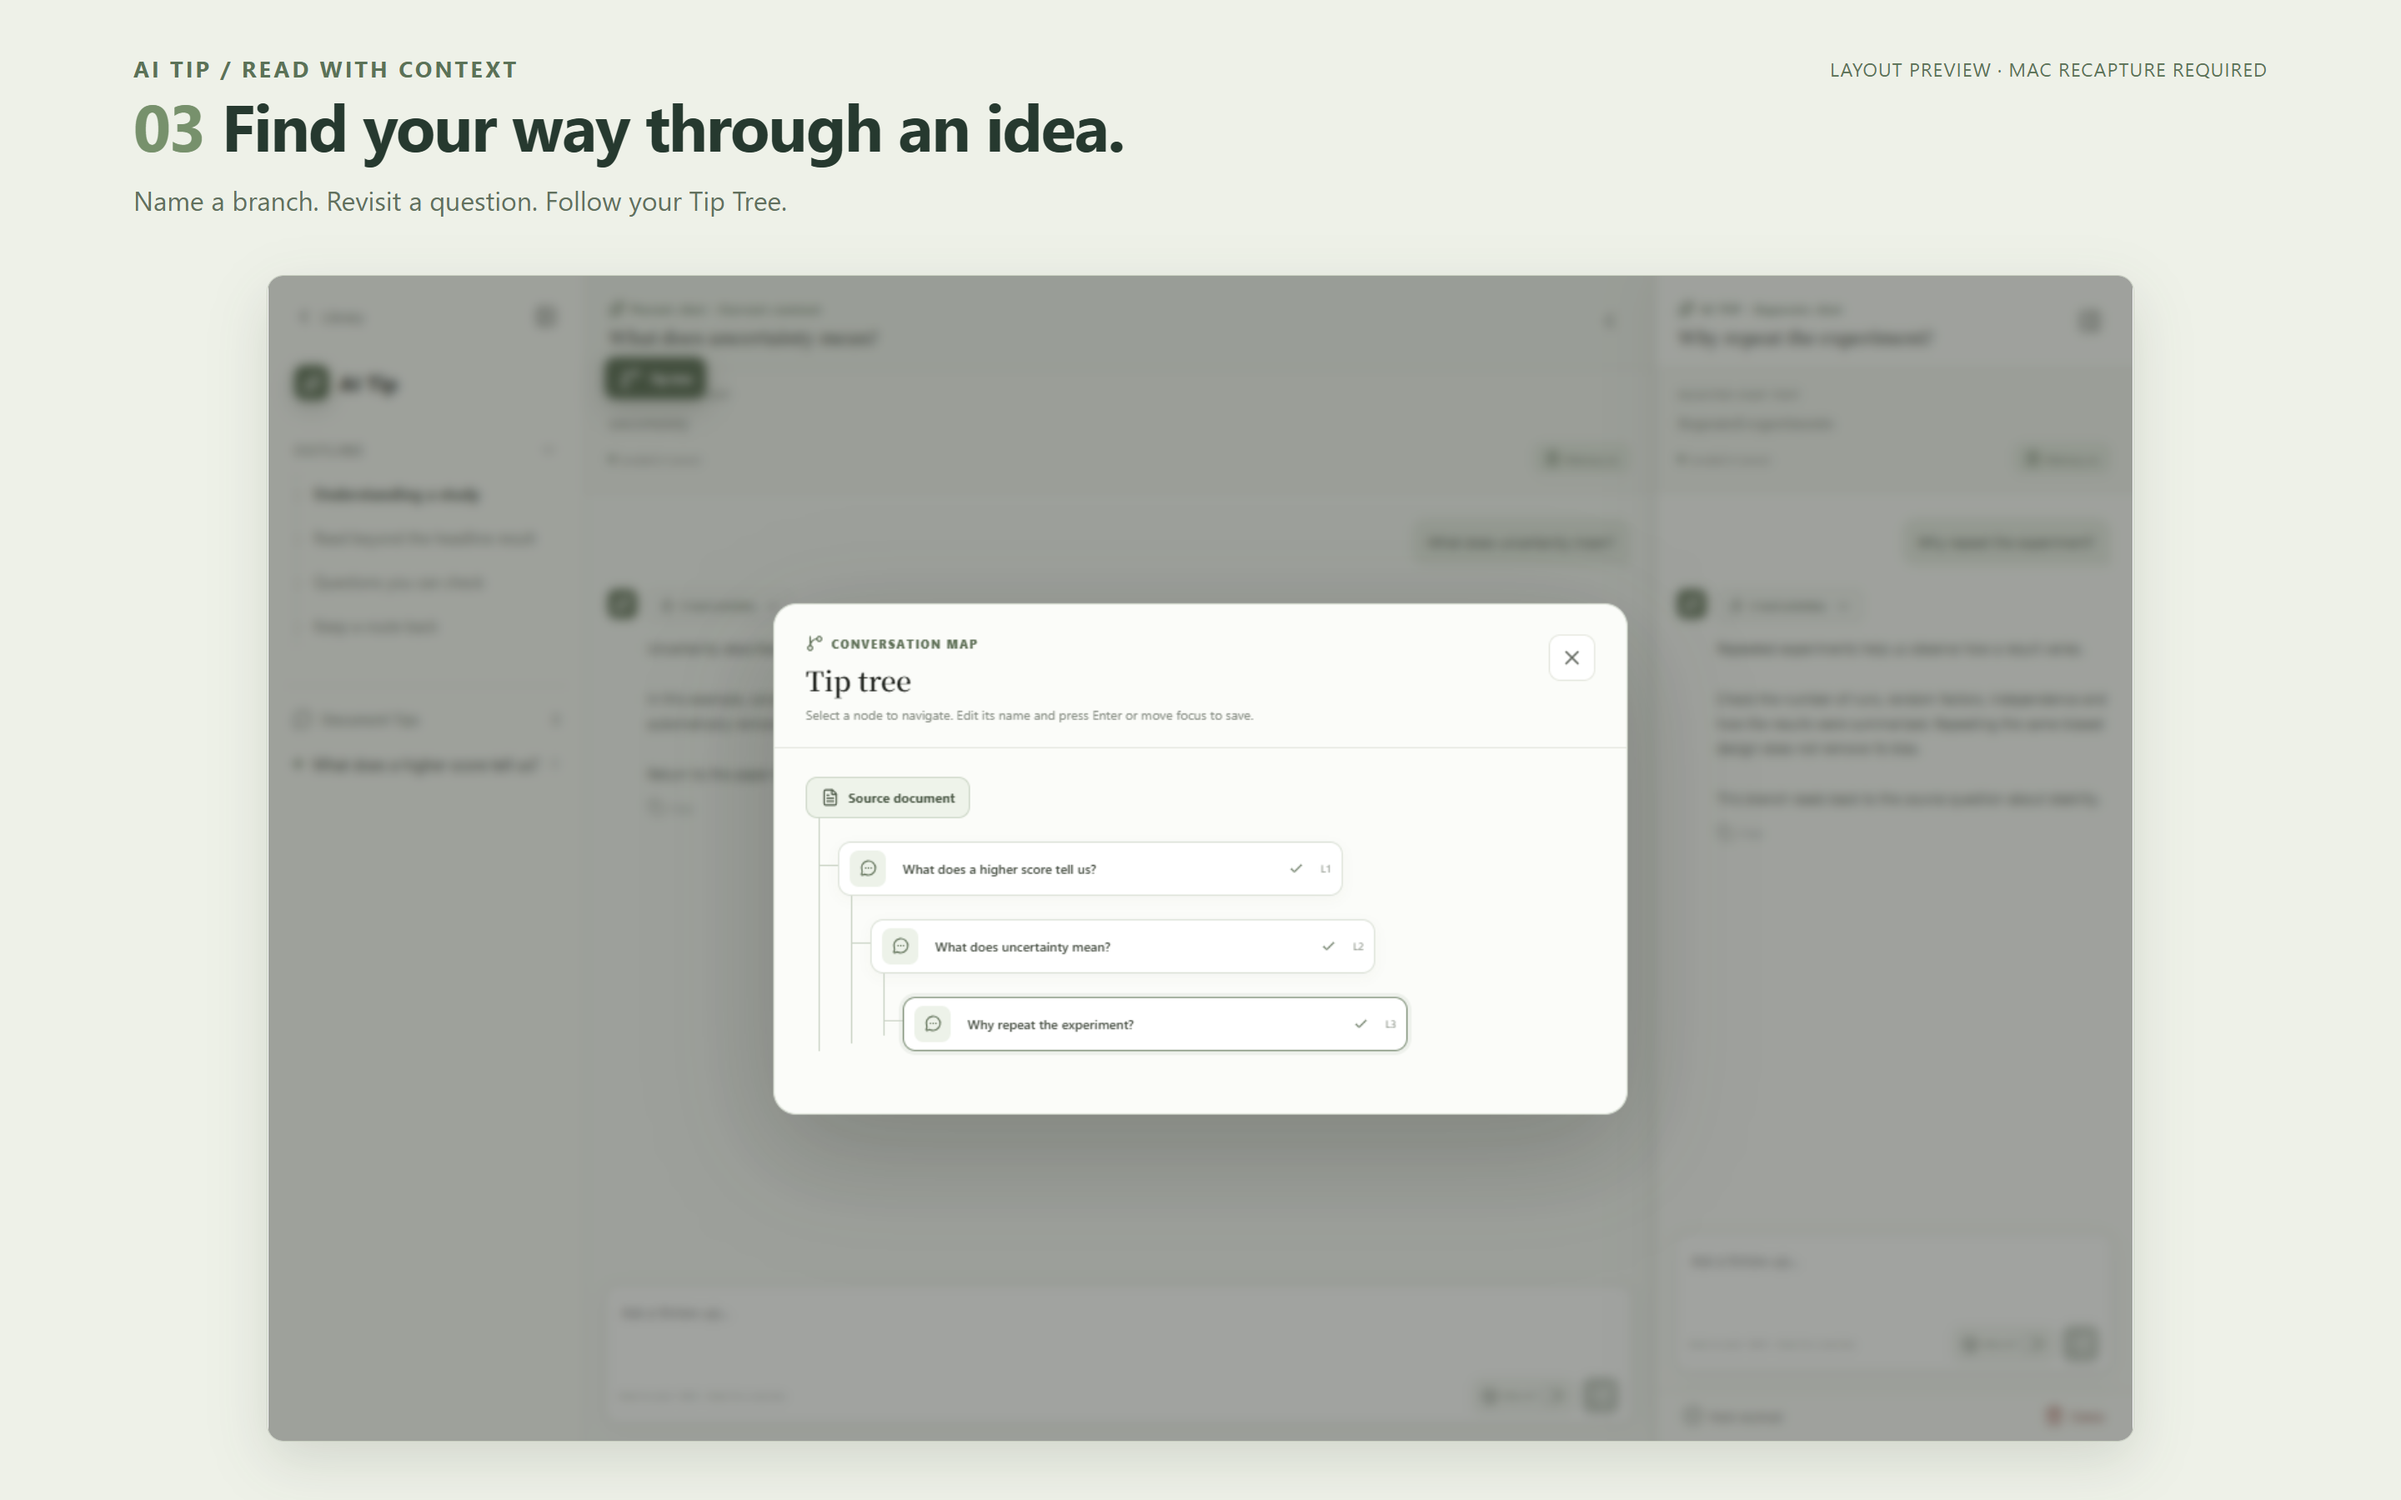
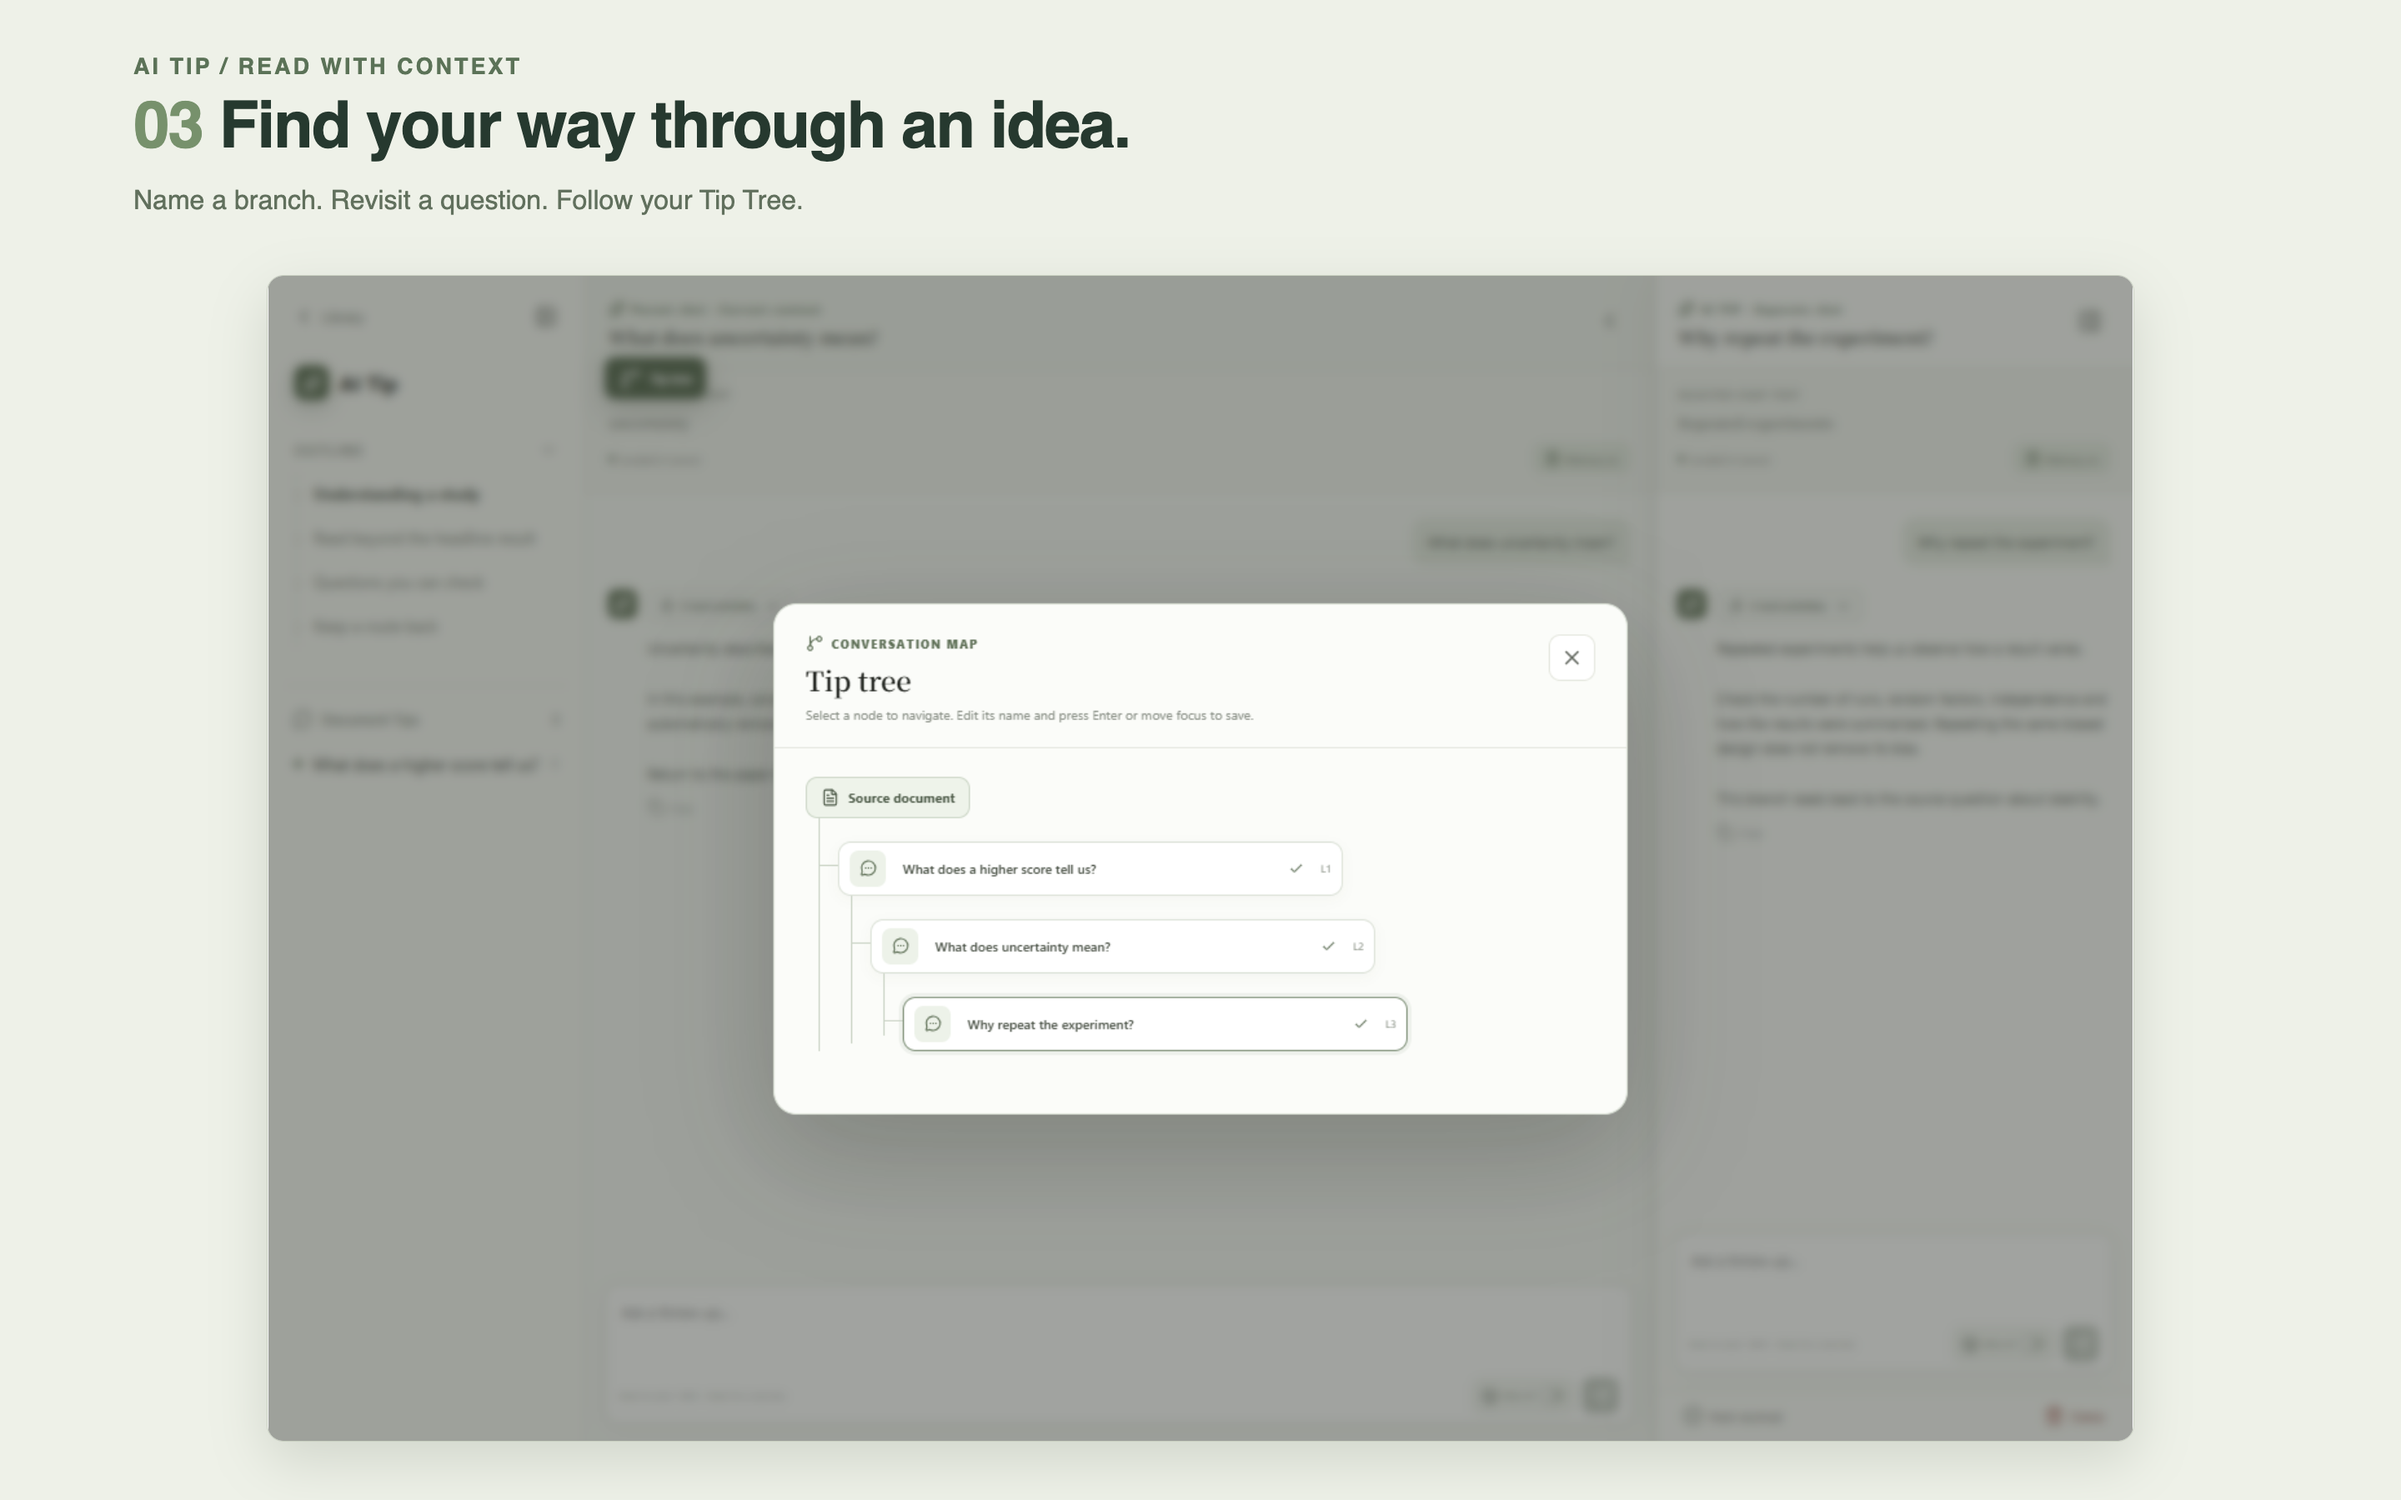
Remove recapture notices from store showcase images

Changed region(s): [[0.0625, 0.0311, 0.4688, 0.1556], [0.7812, 0.0311, 0.9375, 0.0622]]

diff --git a/store-assets/README.md b/store-assets/README.md
@@ -1,6 +1,6 @@
 # AI Tip 商店文案与图册
 
-**当前状态：GitHub 展示 / 商店构图草稿，不可直接作为 Mac 提交图。** 当前原始截图来自 Windows 真实客户端，示例回答由受控本机服务返回；没有伪造 UI、模型性能测试或 Mac 签名证据。标题图均包含“待 Mac 实机复拍”标识。
+**当前状态：GitHub 展示 / 商店构图草稿，不可直接作为 Mac 提交图。** 当前原始截图来自 Windows 真实客户端，示例回答由受控本机服务返回；没有伪造 UI、模型性能测试或 Mac 签名证据。当前商品页构图不再在图片上叠加复拍提示；平台来源与待复拍状态仍以本说明和来源清单为准。
 
 ## 中文图册
 
